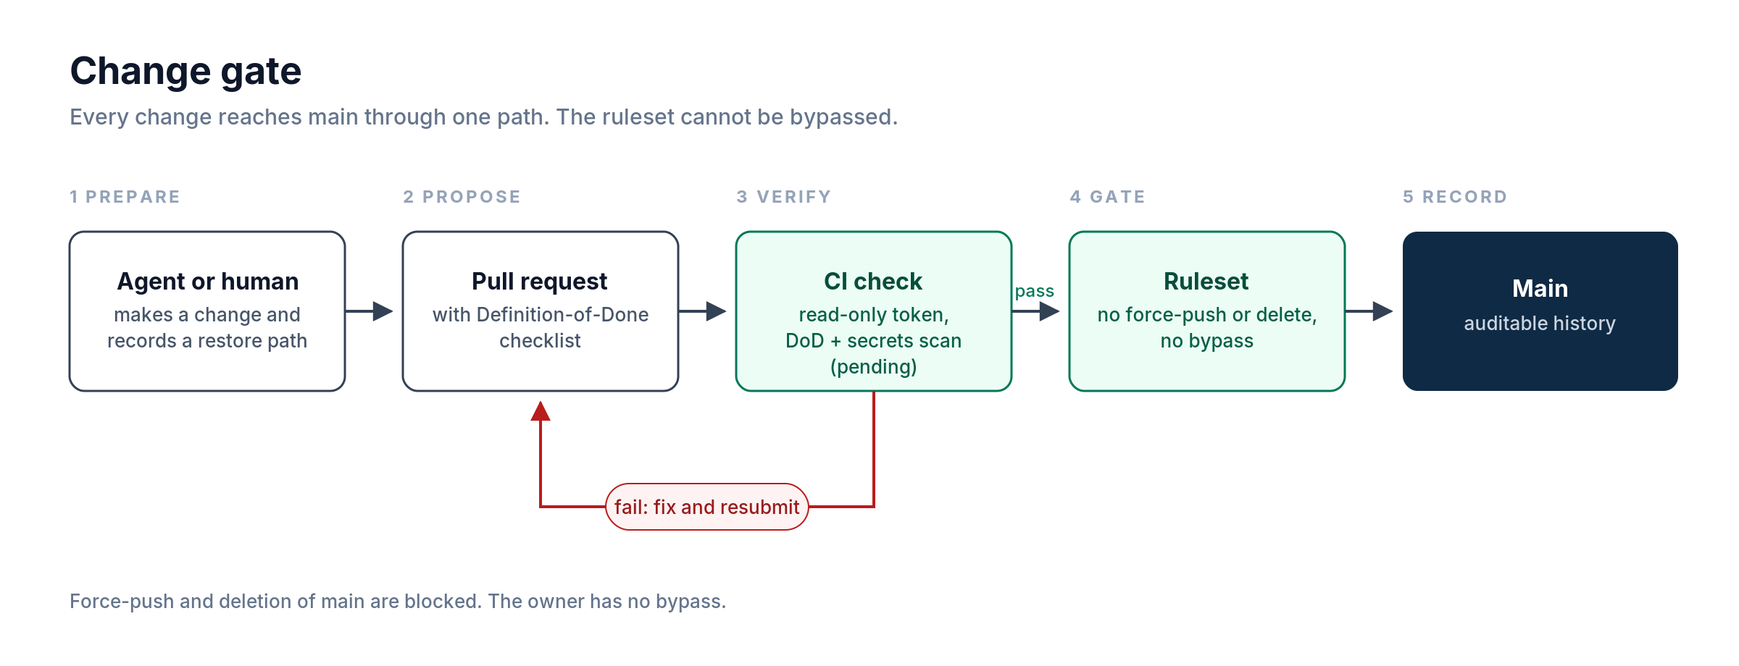
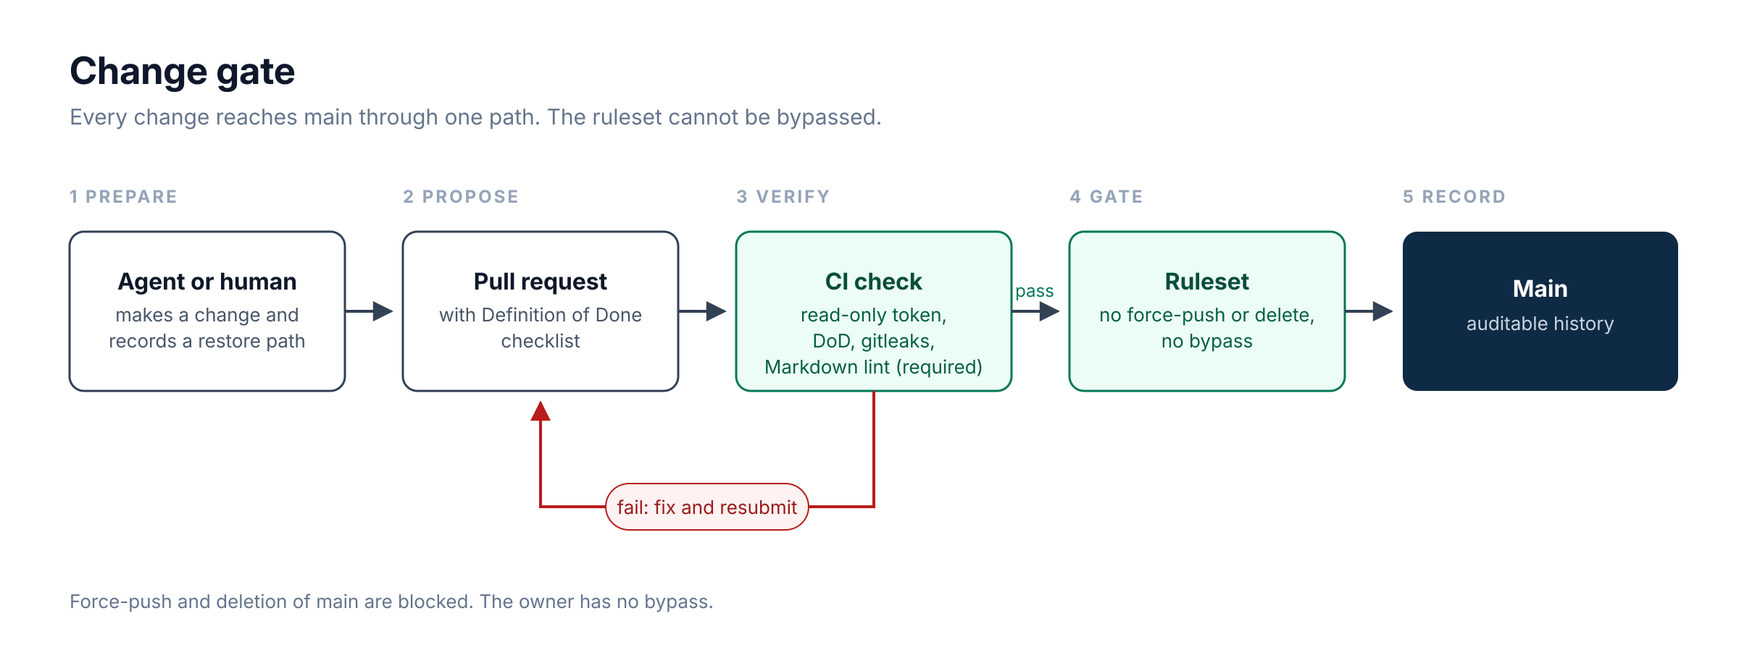
docs: style and visual cleanup (#6)
* docs: style and visual cleanup from prose and visual reviews

* docs: restore sandboxed tools and actions in Jarvis current state

* docs: recolor Jarvis diagrams to the root navy/green style

* docs: add GitHub to the control-plane diagram

* docs: README wording, full-size Jarvis diagram PNG

* docs: two-way flows in the control-plane diagram

diff --git a/jarvis/README.md b/jarvis/README.md
@@ -1,26 +1,40 @@
 # Jarvis: a personal AI that goes where I go
 
-Jarvis is my personal AI assistant. The goal is simple: an AI that helps me wherever I'm wearing my glasses. It's also a real-world system for testing guardrails, trying out architecture ideas, and comparing AI models on accuracy and speed, including speech-to-text.
+[← Back to the AI Operating Model](../README.md)
 
-![Rokid Glasses](assets/rokid-glasses.jpg)
+Jarvis is my personal AI assistant. The goal is simple: help me wherever I'm wearing my glasses. It's also where I test guardrails, try architecture ideas, and compare AI models, speech-to-text included, on accuracy and speed.
 
-The front end is a pair of stock [Rokid Glasses](https://store.rokid.com/products/rokid-glasses): lightweight AI glasses with a display, camera, microphones and a speaker. Jarvis registers as a custom agent on Rokid's supported agent platform, so I say "Hi Rokid, open Jarvis" and nothing on the glasses has to be modified or sideloaded. The glasses link is still a prototype.
+<img src="assets/rokid-glasses.jpg" alt="Rokid Glasses, the stock smart glasses Jarvis runs on" width="320">
+
+The front end is a pair of stock [Rokid Glasses](https://store.rokid.com/products/rokid-glasses): lightweight AI glasses with a display, camera, microphones, and a speaker. Jarvis registers as a custom agent on Rokid's platform. I say "Hi Rokid, open Jarvis", and nothing on the glasses is modified or sideloaded. The link to the glasses is still a prototype.
 
 ## How it works
 
-![How Jarvis works](assets/jarvis-architecture.svg)
+![How Jarvis works: my voice goes from the glasses to Rokid's speech-to-text, through Cloudflare to the Jarvis bridge and models at home, and the answer streams back to the glasses](assets/jarvis-architecture-simple.svg)
+
+*One voice turn, simplified. The [full diagram (open full size)](assets/jarvis-architecture.png) adds the guardrails, memory, evaluation loop, and GitHub.*
 
 1. **Voice in.** I speak to the glasses. Rokid's platform turns my speech into text and sends that text to Jarvis.
-2. **Cloudflare as the front door.** The callback doesn't reach my hardware directly. It lands on Cloudflare's edge, where a web application firewall and Cloudflare Access check it first. A Cloudflare Tunnel then carries it home. A small Cloudflare program, `cloudflared`, runs next to the bridge and dials *out* to Cloudflare's network, keeping an encrypted connection open. That's the same kind of outbound connection a browser makes, so my home firewall never has to accept anything incoming. When a request passes the edge checks, Cloudflare sends it down that already-open connection, and the answer goes back up the same way. Nothing at home listens on the internet, there's no open port to scan, and my home IP address stays hidden behind Cloudflare. If the tunnel goes down, there's simply no path in. The app checks its own credentials and an allowlist too, so passing the edge isn't enough on its own. The front door is designed to be swappable, so Cloudflare could be replaced later without touching the glasses or the bridge.
+2. **Cloudflare as the front door.** The callback doesn't reach my hardware directly.
+   - It lands on Cloudflare's edge, where a web application firewall and Cloudflare Access check it first.
+   - A Cloudflare Tunnel then carries it home. A small Cloudflare program, `cloudflared`, runs next to the bridge and dials *out* to Cloudflare's network, keeping an encrypted connection open.
+   - That's the same kind of outbound connection a browser makes, so my home firewall never has to accept anything incoming.
+   - When a request passes the edge checks, Cloudflare sends it down that already-open connection, and the answer goes back up the same way.
+   - Nothing at home listens on the internet, there's no open port to scan, and my home IP address stays hidden behind Cloudflare.
+   - If the tunnel goes down, there's simply no path in.
+   - The app checks its own credentials and an allowlist too, so passing the edge isn't enough on its own.
+   - The front door is designed to be swappable, so Cloudflare could be replaced later without touching the glasses or the bridge.
 3. **A containerized bridge.** A small bridge service in a container translates between Rokid's agent protocol and an OpenAI-compatible model interface. It streams the answer back to the glasses as it's generated, so the display and speaker start responding before the full answer is done.
 4. **Model routing: local first.** The bridge talks to a local model first (Ollama on my own GPU) and can use hosted cloud models when a task needs them. Because the interface is standard, swapping models is a configuration change, not a rewrite.
-5. **Answer out.** The response streams to the glasses' display and speaker, formatted for a small heads-up display: one main message and only a few steps.
+5. **Answer out.** The response streams to the glasses' display and speaker, formatted for a small heads-up display: one main message, a few steps at most.
 6. **Memory and notes.** Jarvis keeps its own memory, and my notes vault stays in sync on a schedule, so what I capture on the go ends up with the rest of my notes.
-7. **GitHub as home base.** The bridge code, design docs, runbooks and decision records live on GitHub. Changes go through pull requests with automated checks, and work is tracked on a project board.
+7. **GitHub as home base.** The bridge code, design docs, runbooks, and decision records live on GitHub. Changes go through pull requests with automated checks, and work is tracked on a project board.
 
 ## Current state vs future state
 
-![Jarvis current state vs future state](assets/jarvis-current-vs-future.svg)
+![Jarvis current state vs future state: today Rokid's platform does speech-to-text; in the planned app I run that stage myself and can swap models, while everything downstream stays the same](assets/jarvis-current-vs-future.svg)
+
+*Only the speech-to-text stage changes between today and the planned app.*
 
 **Current state.** Stock Rokid Glasses, with Jarvis registered as a custom agent on Rokid's platform. I say "Hi Rokid, open Jarvis", Rokid's platform turns my speech into text, and that text streams to Jarvis. From there it goes through Cloudflare to the containerized bridge, model routing, and sandboxed tools and actions, and the answer streams back to the display and speaker.
 
@@ -28,13 +42,13 @@ The front end is a pair of stock [Rokid Glasses](https://store.rokid.com/product
 
 ## Guardrails, and where they act
 
-Because Jarvis is a real-world example, it lets me test different guardrails, configurations, and prompts, then look for weaknesses I can use to make further improvements.
+Jarvis lets me test guardrails, configurations, and prompts against real use, find weak spots, and fix them.
 
 - **At the edge:** Cloudflare filters and authenticates traffic before it reaches home, and the app checks credentials again on its own.
-- **Around actions:** I evaluated a container-based sandbox for running tools and actions. I test how well it enforces the rules, such as blocking outbound traffic by default, per-program network rules, filesystem lockdown and a full audit trail, and I keep expanding that testing as needed. Sandboxes started in about 1–2 seconds, which matters when a voice reply needs to land in a few seconds.
+- **Around actions:** I evaluated a container-based sandbox for tools and actions. I test how well it enforces its rules: outbound traffic blocked by default, per-program network rules, filesystem lockdown, and a full audit trail. Fast startup matters, since a voice reply has to land in seconds.
 - **Around spending:** Cloud model use has a hard spending cap, and heavy jobs check the remaining budget before they run.
 - **Around uptime:** After an outage, Jarvis got a watchdog that runs outside the system it watches. It only acts after repeated failed checks, and it waits between restarts so it can't loop.
-- **Around its role:** When Jarvis once went beyond its agreed role, it wrote a blameless report on itself and the lesson became a written rule. Corrections become rules, not reminders.
+- **Around its role:** When Jarvis once went beyond its agreed role, it wrote a blameless report on itself, and the lesson became a written rule.
 
 ### Planned guardrails
 
@@ -54,20 +68,20 @@ Jarvis is also a living lab for designing a personal AI:
 
 - **Local vs cloud.** What runs on my own GPU, and what's worth sending to a hosted model.
 - **Swappable parts.** The front door and the model sit behind standard interfaces, so I can trade one out and compare. With the planned app, speech-to-text becomes swappable too.
-- **A control plane.** My agile board is the control plane for Jarvis. Work and changes are planned and tracked there, so I can see what's in progress and what's waiting on me. I built it on GitHub because that was the expedient choice for now, but GitHub's API rate limits keep it from scaling, so I'll probably move to a dedicated GitLab or another tool.
+- **A control plane.** My agile board is the control plane for Jarvis. Work and changes are planned and tracked there, so I can see what's in progress and what's waiting on me. I built it on GitHub because it was quick. GitHub's API rate limits keep it from scaling, so I'll likely move it to GitLab or another tool.
 - **Latency budget.** A voice turn has to feel instant, so every piece (edge, tunnel, sandbox, model) is judged by what it adds to the response time.
 
-Some experiments stick and some get dropped. Either way, I learn something from each one.
+Some experiments stick, some get dropped, and each one teaches me something.
 
 ## Testing AI models
 
 Jarvis also gives me a real-world way to compare AI models on **accuracy and speed**:
 
-- **Language models.** A scheduled weekly sweep runs the same tests across a set of hosted models and my local models. It flags any model whose results drift from the previous run and picks up newly released models.
+- **Language models.** A weekly sweep runs the same tests on a set of hosted models and my local models. It flags any model whose results drift from the previous run and picks up newly released models.
 - **Speech-to-text.** Wearing the glasses means real-world voice testing. Today that shows how accurately and how quickly Rokid's recognition understands me. The planned app will let me compare speech-to-text models against each other.
 
 ## Getting the glasses
 
-Getting the glasses was its own project. When I went to order them, Rokid wouldn't ship to the US, so I had to buy a pair on eBay. Other US buyers [reported the same checkout problem](https://www.reddit.com/r/rokid_official/comments/1rwc06j/rokid_glasses_not_shipping_to_the_united_states/), and Rokid has since [said it is expanding US retail](https://www.globenewswire.com/news-release/2026/03/12/3255022/0/en/rokid-highlights-its-u-s-retail-strategy-at-vision-expo-2026.html).
+Getting the glasses was its own project. Rokid wouldn't ship to the US, so I bought a pair on eBay. Other US buyers [reported the same checkout problem](https://www.reddit.com/r/rokid_official/comments/1rwc06j/rokid_glasses_not_shipping_to_the_united_states/), and Rokid has since [said it is expanding US retail](https://www.globenewswire.com/news-release/2026/03/12/3255022/0/en/rokid-highlights-its-u-s-retail-strategy-at-vision-expo-2026.html).
 
-[Image credits](assets/CREDITS.md)
+[Image credits](assets/CREDITS.md) · [Back to the AI Operating Model](../README.md)

diff --git a/docs/overview.md b/docs/overview.md
@@ -1,6 +1,8 @@
 # AI Operating Model: governing AI agents with security controls as code
 
-![Control plane](../diagrams/01-control-plane.png)
+![Control plane: AI agents act through a version-controlled governed layer with two-way flows to GitHub, the knowledge base, and rate-limited APIs, and consequential actions wait for the human owner's approval](../diagrams/01-control-plane.png)
+
+*The control plane: agents act through a governed layer, and anything consequential routes back to me.*
 
 ## Problem
 
@@ -8,7 +10,7 @@ AI assistants are powerful but forget everything between sessions. Left ungovern
 
 ## Approach
 
-I built a personal "operating model": a version-controlled layer of process docs, reusable skills, and state records. Agents read it for context and must follow it when they act. Chat is just the interface, and the durable truth lives in reviewable files.
+I built a personal "operating model": a version-controlled layer of process docs, reusable skills, and state records. Agents read it for context and must follow it when they act. Chat is only the interface. The record lives in reviewable files.
 
 ## Governing multiple AI agents
 
@@ -19,9 +21,9 @@ I run multiple autonomous AI agents that work in the same repositories and on th
 - **Shared hard rules.** Every agent loads the same rules card on every run, so their policy can't drift apart.
 - **Evidence, not chat.** A handoff is a link to a pull request or issue. A chat message doesn't count as proof that work was done.
 
-**Incident ledger.** When an agent breaks a rule, the deviation is written up as an incident covering what happened, why, and what changed. Each incident feeds back into the rules. In one week, a core rule was amended three times as real incidents exposed gaps. Every agent logs its own deviations, including the agent that drafted the rules.
+**Incident ledger.** When an agent breaks a rule, the deviation is written up as an incident covering what happened, why, and what changed. Each incident feeds back into the rules. Real incidents have exposed gaps, and core rules have been amended because of them. An agent logs its own deviations, even against rules it drafted.
 
-**Status.** These rules are written policy that the agents follow, plus a ledger reviewed by me. They are not yet technically enforced, so an agent could still break one. That gap is tracked as future work.
+**Status.** These rules are written policy, plus a ledger I review. They are not yet technically enforced, so an agent could still break one. That gap is tracked as future work.
 
 ## Human approval gates
 
@@ -30,7 +32,7 @@ Agents work on their own when the work is routine and reversible. Anything with 
 - **What needs approval.** Sending a message or email, deleting anything, spending money, publishing something publicly, and changing a calendar based on something an agent read in email.
 - **What doesn't.** Drafting, researching, opening a pull request, and other work that can be reviewed or undone.
 - **Drafts, not sends.** Outgoing messages are prepared as drafts I review and send myself. A request to "handle it" is never permission to send.
-- **Visible waits.** Work that needs my decision gets a human-in-the-loop label on the board, so a pending approval shows up as a wait instead of stalling silently.
+- **Visible waits.** Work that needs my decision gets a human-in-the-loop label on the board, so a pending approval is visible instead of silently stalling.
 - **Refusals are final.** If I decline or don't answer, the agent doesn't retry or find another route to the same action.
 
 **Status.** Send and approval prompts for outgoing messages are enforced by the agent platform. Approval before deleting, spending money, publishing, and changing a calendar from email is written policy that the agents follow.
@@ -39,7 +41,7 @@ Agents work on their own when the work is routine and reversible. Anything with 
 
 I can't govern what I can't see, so agent activity is meant to be visible and traceable after the fact.
 
-- **Visible commands.** Agents are required to show every command in a visible terminal before it runs and to log it with a timestamp. Hidden background commands are not allowed by policy.
+- **Visible commands.** Policy requires agents to show every command in a visible terminal before it runs and log it with a timestamp. Hidden background commands are not allowed.
 - **Traced model calls.** Model calls routed through OpenRouter are traced in Opik, an open-source LLM tracing tool, so the data can be used to compare models, catch quality drift, and keep spending in check.
 - **Review, not trust.** When something goes wrong, the logs and traces are the evidence behind the incident ledger, not an agent's own account of what it did.
 
@@ -52,7 +54,9 @@ I can't govern what I can't see, so agent activity is meant to be visible and tr
 - **Backup before mutation.** A restore path is recorded before any code or config change.
 - **Blocker taxonomy.** Every wait is classified (human, vendor, or external), so stalled work stays visible instead of silently rotting.
 
-![Change gate](../diagrams/02-change-gate.png)
+![Change gate: every change goes through a pull request, the Definition of Done, gitleaks, and Markdown lint checks, and a no-bypass ruleset before it reaches main](../diagrams/02-change-gate.png)
+
+*One path to main, with no bypass.*
 
 ## Case study: a rate-limited API collector
 
@@ -61,18 +65,18 @@ One of my projects collects data from a vendor API with strict rate limits. Goin
 - **One control plane, many adapters.** A shared gate tracks rolling-window budgets for each rate-limited API through a small interface: acquire before a call, record the result, report a snapshot, and back off. GitHub has a full gate of its own, and the collector plugs in through an adapter that wraps its existing limiter instead of rewriting it.
 - **Check before bulk calls.** Agents read the shared snapshot before a large batch of calls instead of finding the limit by hitting it.
 - **One pattern, not many.** A new API gets a new adapter in the same place, not a parallel mechanism.
-- **Visible budgets.** A combined snapshot feeds a daily digest, so quota use is reviewed like any other operating metric.
+- **Visible budgets.** A combined snapshot feeds a regular digest, so quota use is reviewed like any other operating metric.
 
-**Lesson.** Rate limits are a shared resource. Treating them as a control plane, rather than leaving each script to handle its own, keeps every agent inside the same budget.
+**Lesson.** Rate limits are a shared resource. Treating them as a control plane, instead of leaving each script to handle its own, keeps every agent inside the same budget.
 
 ## Security by design
 
 - **One secrets store.** Credentials are injected at runtime from a secrets manager. Nothing is committed, and CI does not keep a second copy.
 - **Least-privilege CI.** Pipeline jobs get a read-only token. Cloud access is off by default, and short-lived federated credentials are the only allowed pattern.
-- **Controls are enforced, not suggested.** Every change must include a Definition-of-Done checklist. CI verifies the checklist is present and fully ticked; items are self-attested. A repository ruleset blocks force-pushes and branch deletion and allows no bypass, not even for me. Requiring the CI checks before merge is pending for this public repository.
+- **Controls are enforced, not suggested.** Every change includes a Definition of Done checklist. CI checks that the list is present and fully ticked. Items are self-attested. A repository ruleset blocks force-push and branch deletion and allows no bypass, not even for me. The ruleset requires the Definition of Done, gitleaks secrets scan, and Markdown lint checks before merge.
 - **Sensitive operational state** (quota counters, local data) is excluded from version control by policy.
 
 ## Lessons
 
 - A control that can be skipped will be skipped, by agents and by people. Make the check mandatory.
-- Keep the system of record for knowledge separate from the one for executable process, or both decay.
+- Keep knowledge and executable process in separate systems of record, or both decay.

diff --git a/README.md b/README.md
@@ -1,30 +1,40 @@
 # AI Operating Model
 
-A working pattern for running AI agents under the same controls you would expect from an enterprise security program.
+A working pattern for running AI agents under enterprise security controls.
 
-## Featured project: Jarvis
+**Bottom line:** my AI agents work under the same kind of rules, gates, and audit trail I'd expect from a security program, and this repository shows how.
 
-<a href="jarvis/README.md"><img src="jarvis/assets/rokid-glasses.jpg" alt="Rokid Glasses" width="220" align="right"></a>
+## What you'll find
 
-Jarvis is my personal AI assistant: an AI that helps me wherever I'm wearing my Rokid Glasses. It's also a real-world system for testing guardrails, trying out architecture ideas, and comparing AI models on accuracy and speed, including speech-to-text.
+- **Governance for multiple agents.** How agents claim work, stay in their own lanes, and log their own rule breaks in an incident ledger.
+- **Approval gates and enforced controls.** What runs on its own, what waits for a human, and which controls a machine actually enforces.
+- **Jarvis.** A personal AI on Rokid Glasses that I use as a real-world lab for guardrails and model testing.
+
+![Control plane: AI agents act through a version-controlled governed layer with secrets injected at runtime, API budget gates, and an operating model; work flows both ways with GitHub (PRs and card updates in; rules, checks, and approvals out), the knowledge base (writes and reads), and rate-limited APIs (requests within budget out; responses and rate-limit headers back); consequential actions wait for the human owner's approval](diagrams/01-control-plane.png)
+
+*The control plane: agents act through a governed layer, and anything consequential routes back to me for approval.*
+
+## Featured: Jarvis
+
+<a href="jarvis/README.md"><img src="jarvis/assets/rokid-glasses.jpg" alt="Rokid Glasses, the stock smart glasses Jarvis runs on" width="160" align="right"></a>
+
+Jarvis is my personal AI assistant, built around Rokid Glasses. I also use it to test guardrails, try architecture ideas, and compare AI models, speech-to-text included, on accuracy and speed.
 
 **[Explore Jarvis →](jarvis/README.md)**
 
 <br clear="right">
 
-![Control plane](diagrams/01-control-plane.png)
-
 ## Why
 
-AI agents are capable, but they forget everything between sessions and act with whatever access they are given. Without structure, they make unreviewed changes, burn through API quotas, and step on each other's work. This project treats agents as privileged operators: their process lives in version-controlled files, their changes go through a gated pipeline, and anything consequential waits for a human.
+AI agents are capable, but they forget everything between sessions and act with whatever access they are given. Without structure, they make unreviewed changes, burn through API quotas, and step on each other's work. This project treats agents as privileged operators. Their process lives in version-controlled files. Their changes go through a gated pipeline. Anything consequential waits for a human.
 
 ## What it covers
 
-**Multi-agent governance and an incident ledger.** Several agents share the same repositories and task board. Each one claims work before starting, works on its own branch prefix, and hands off with a link to a pull request rather than a chat message. When an agent breaks a rule, the deviation is written up as an incident, and the incident feeds back into the rules.
+**Multi-agent governance and an incident ledger.** Each agent claims work before starting, works on its own branch prefix, and hands off with a link to a pull request, not a chat message. When an agent breaks a rule, the deviation is written up as an incident, and the incident feeds back into the rules.
 
 **Human approval gates.** Routine, reversible work runs on its own. Sending messages, deleting anything, spending money, and publishing stop and wait for the owner. Outgoing messages are prepared as drafts. A declined request is final.
 
-**Observability.** Agent commands are meant to be visible and logged, and model calls routed through OpenRouter are traced in Opik. When something goes wrong, the logs and traces are the evidence, not the agent's own account.
+**Observability.** Agent commands should be visible and logged. Model calls routed through OpenRouter are traced in Opik. When something goes wrong, the logs and traces are the evidence, not the agent's own account.
 
 ## What is enforced vs. written policy
 
@@ -32,7 +42,8 @@ Not every control here is enforced by a machine yet. This table says which is wh
 
 | Control | Status | How |
 |---|---|---|
-| Definition-of-Done, secrets scan, and Markdown lint checks required before merge to main | Pending | CI workflows are written but not yet added to this repository; the ruleset will require them once they land |
+| Definition of Done, gitleaks secrets scan, and Markdown lint checks required before merge to main | Enforced | CI workflows run on every pull request, and the ruleset requires them |
+| Prose style check (Vale) | Advisory | Runs on pull requests and leaves notes; it never blocks a merge |
 | No bypass of the ruleset, including the owner | Enforced | Ruleset has an empty bypass list |
 | Force-push and deletion of main blocked | Enforced | Ruleset rules |
 | Tracing of model calls through OpenRouter | In place (monitoring, not a gate) | Opik tracing records calls; it does not block anything |
@@ -45,25 +56,21 @@ Closing the gap between written policy and enforcement is tracked as future work
 
 ## How changes reach main
 
-![Change gate](diagrams/02-change-gate.png)
+![Change gate: a change becomes a pull request, must pass the Definition of Done, gitleaks, and Markdown lint checks, then the no-bypass ruleset, before it reaches main](diagrams/02-change-gate.png)
 
-This repository is meant to use the same gate it describes. The CI checks (a Definition-of-Done check, a secrets scan, and a Markdown lint) are pending: they are not running yet. Today the main branch ruleset blocks force-push and deletion with no bypass; once the workflows land, it will also require the three checks, as shown in [docs/ruleset.json](docs/ruleset.json).
+*Every change takes one path to main, and a failed check sends it back for a fix.*
 
-## Read more
-
-The full write-up, including architecture, a case study on a shared control plane for rate-limited APIs, and lessons learned, is in [docs/overview.md](docs/overview.md).
-
-For a personal AI built around smart glasses, see the [Jarvis rundown](jarvis/README.md).
+This repository uses the gate it describes. CI runs the Definition of Done check, the gitleaks secrets scan, and a Markdown lint on every pull request, and the main branch ruleset requires all three. The ruleset also blocks force-push and deletion, with no bypass. A Vale prose check runs too, as advice only. See [docs/ruleset.json](docs/ruleset.json).
 
 ## Repository layout
 
 | Path | Contents |
 |---|---|
-| `docs/overview.md` | Full narrative overview |
+| `docs/overview.md` | Full write-up: architecture, a case study on a shared control plane for rate-limited APIs, and lessons learned |
 | `docs/ruleset.json` | Main branch ruleset applied to this repository |
-| `jarvis/` | Jarvis, my personal AI on Rokid Glasses ([rundown](jarvis/README.md)) |
+| `jarvis/` | Jarvis, my personal AI on Rokid Glasses ([rundown](jarvis/README.md), [image credits](jarvis/assets/CREDITS.md)) |
 | `diagrams/` | Diagram sources (SVG) and PNG exports |
-| `.github/` | Pull request template (CI workflows pending) |
+| `.github/` | Pull request template and CI workflows |
 
 ## License
 

diff --git a/jarvis/assets/CREDITS.md b/jarvis/assets/CREDITS.md
@@ -1,4 +1,6 @@
 # Image credits
 
-- `rokid-glasses.jpg`: official Rokid product image, downloaded Oct 26, 2026 from the Rokid Glasses page (<https://global.rokid.com/pages/rokid-glasses>; file `cdn/shop/files/001_…jpg`). © Rokid. No open license is published; used here for identification and commentary only. Will be removed at Rokid's request.
-- `jarvis-architecture.svg`: original diagram of Jarvis and its guardrails.
+- `rokid-glasses.jpg`: official Rokid product image, downloaded Oct 26, 2026 from the Rokid Glasses page (<https://global.rokid.com/pages/rokid-glasses>; file `cdn/shop/files/001_…jpg`). © Rokid. No open license is published; used here for identification and commentary only. I will remove it if Rokid asks.
+- `jarvis-architecture.svg` and `jarvis-architecture.png` (2x export): original diagram of Jarvis and its guardrails.
+- `jarvis-architecture-simple.svg`: original simplified diagram of one Jarvis voice turn.
+- `jarvis-current-vs-future.svg`: original diagram of Jarvis today and as planned.

diff --git a/SECURITY.md b/SECURITY.md
@@ -8,6 +8,6 @@ If you find something here that looks sensitive, such as a credential, hostname,
 
 ## Controls on this repository
 
-- The main branch blocks force-push and deletion and allows no bypass.
+- The main branch ruleset blocks force-push and deletion, with no bypass.
 - GitHub secret scanning and push protection are on.
-- CI checks (Definition of Done, gitleaks secrets scan, Markdown lint) are pending and not running yet.
+- CI checks (Definition of Done, gitleaks secrets scan, Markdown lint) run on every pull request and are required before merge. A Vale prose check runs as advice only.
